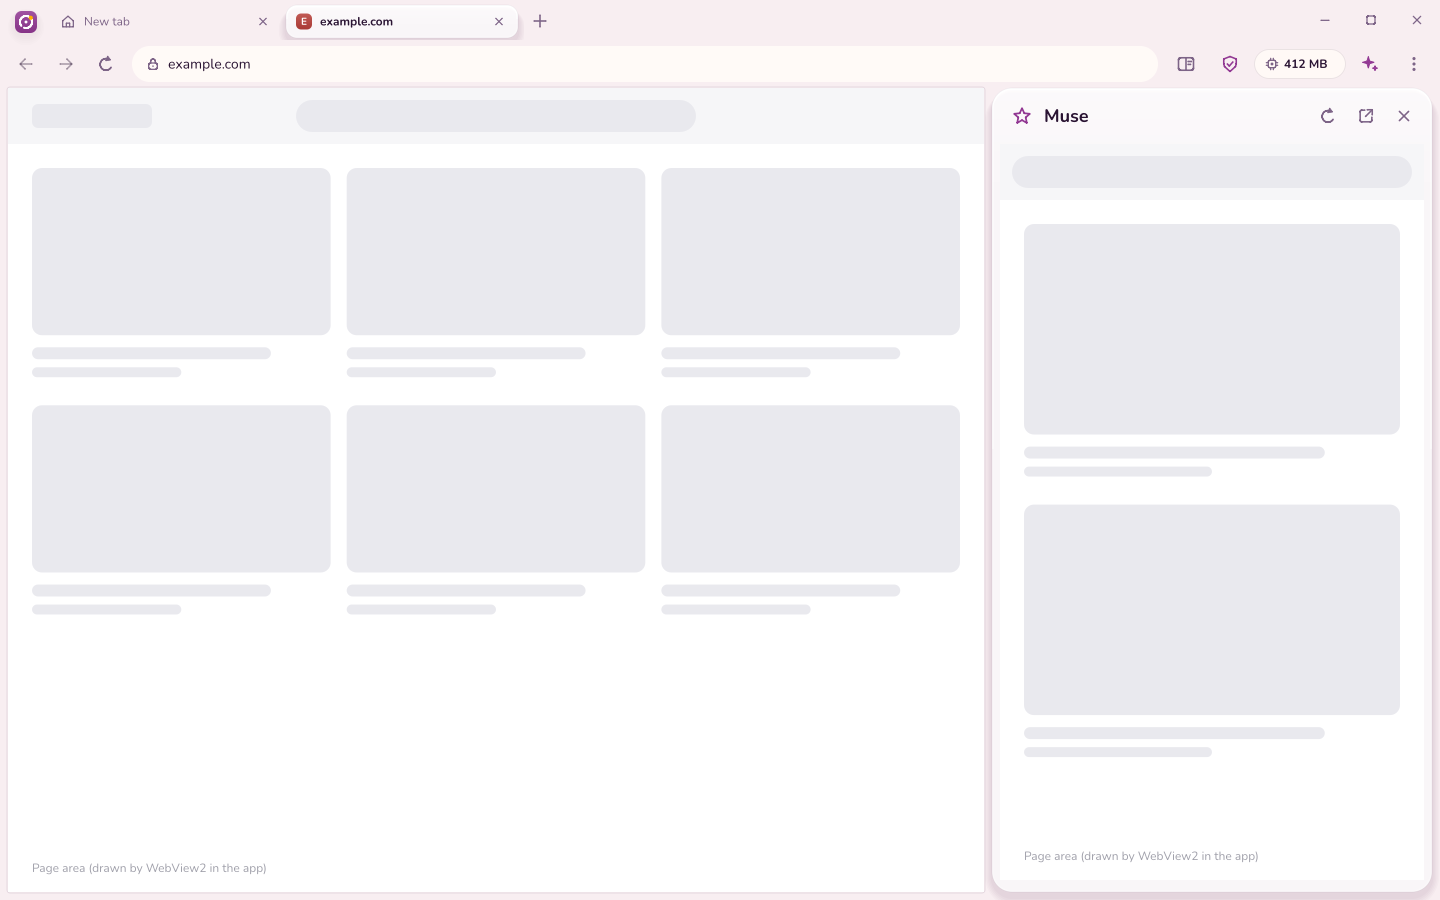
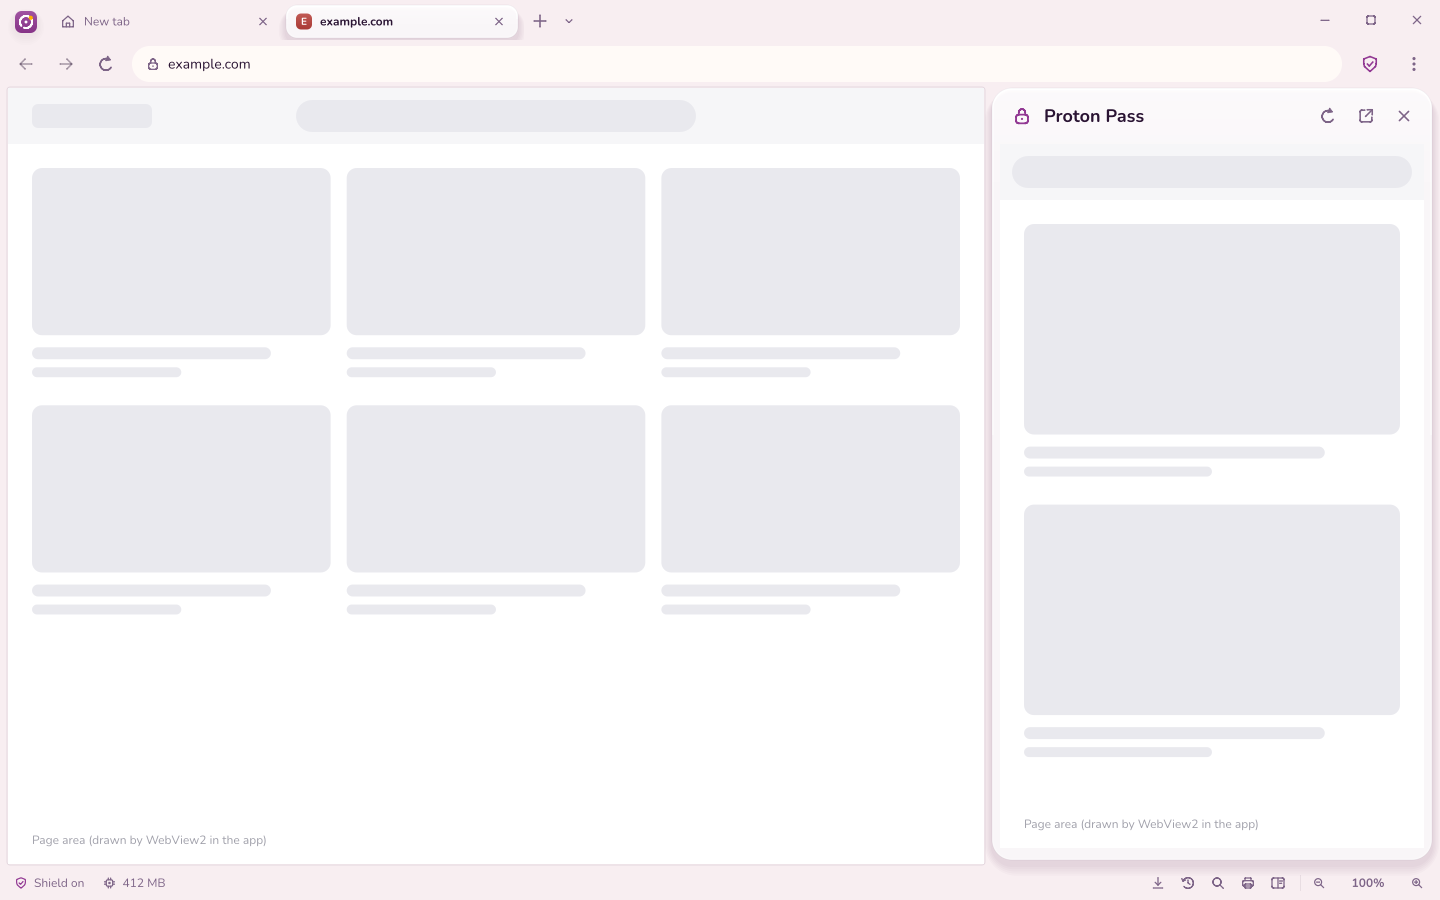
1.0.3: README and notes; Lite results read Google's mobile page too, and look again while it builds
Claude-Session: https://claude.ai/code/session_01MEhVsAAkMkEJaBw27qK1mL

diff --git a/android/app/src/main/java/org/tulipanlabs/lite/Results.kt b/android/app/src/main/java/org/tulipanlabs/lite/Results.kt
@@ -45,10 +45,6 @@ class Results(private val ctx: Context) {
         val w = worker ?: WebView(ctx).also { v ->
             v.settings.javaScriptEnabled = true
             v.settings.domStorageEnabled = true
-            // Google's desktop page: the reading scripts are the desktop's, and its mobile page is built differently
-            v.settings.userAgentString = DESKTOP_AGENT
-            v.settings.useWideViewPort = true
-            v.settings.loadWithOverviewMode = true
             v.visibility = View.INVISIBLE
             host.addView(v, 0, FrameLayout.LayoutParams(ViewGroup.LayoutParams.MATCH_PARENT, ViewGroup.LayoutParams.MATCH_PARENT))
             worker = v
@@ -60,6 +56,8 @@ class Results(private val ctx: Context) {
         var web: List<WebHit>? = null
         var finished = false
         var stage = 0
+        var tries = 0
+        lateinit var again: (String?) -> Unit
         fun finish(hits: List<WebHit>?, images: List<ImageHit>) {
             if (finished || my != seq) return
             finished = true
@@ -82,6 +80,11 @@ class Results(private val ctx: Context) {
                         v.evaluateJavascript(webJs) { raw ->
                             val (hits, captcha) = parseWeb(raw)
                             android.util.Log.i("LiteResults", "web: ${hits.size} links, captcha $captcha, at $url")
+                            if (hits.isEmpty() && !captcha && tries++ < 3) {
+                                // the page may still be building its results: look again
+                                ui.postDelayed({ if (my == seq && !finished) v.evaluateJavascript(webJs) { r2 -> again(r2) } }, 700)
+                                return@evaluateJavascript
+                            }
                             if (captcha || hits.isEmpty()) {
                                 finish(null, emptyList())
                                 return@evaluateJavascript
@@ -98,6 +101,19 @@ class Results(private val ctx: Context) {
                         }
                     }
                 }, if (st == 0) 250 else 900)
+            }
+        }
+        again = { raw ->
+            val (hits, captcha) = parseWeb(raw)
+            android.util.Log.i("LiteResults", "web again: ${hits.size} links, captcha $captcha")
+            when {
+                hits.isNotEmpty() -> {
+                    web = hits
+                    stage = 1
+                    w.loadUrl(Search.url(q, Mode.IMAGES))
+                }
+                captcha || tries++ >= 3 -> finish(null, emptyList())
+                else -> ui.postDelayed({ if (my == seq && !finished) w.evaluateJavascript(webJs) { r -> again(r) } }, 700)
             }
         }
         w.loadUrl(Search.url(q, Mode.WEB))

diff --git a/android/app/src/main/java/org/tulipanlabs/lite/MainActivity.kt b/android/app/src/main/java/org/tulipanlabs/lite/MainActivity.kt
@@ -1182,7 +1182,7 @@ class MainActivity : Activity(), PageEvents {
         // about
         col.addView(section("About"))
         val wv = WebView.getCurrentWebViewPackage()?.versionName ?: ""
-        col.addView(note("Lite 1.0.2 for Android · pages by Android System WebView $wv\nTulipan Labs (Cesar Jose Luis Torrecilla Gelvez) · GPL 3.0"))
+        col.addView(note("Lite 1.0.3 for Android · pages by Android System WebView $wv\nTulipan Labs (Cesar Jose Luis Torrecilla Gelvez) · GPL 3.0"))
         return col
     }
 

diff --git a/android/app/src/main/assets/js/google-web.js b/android/app/src/main/assets/js/google-web.js
@@ -1,7 +1,8 @@
 (() => {
   const out = [], seen = new Set();
   const root = document.querySelector('#rso') || document.querySelector('#search') || document.body;
-  for (const h of root.querySelectorAll('a h3')) {
+  // h3 on the desktop page; a heading role on the mobile one
+  for (const h of root.querySelectorAll('a h3, a [role="heading"]')) {
     const a = h.closest('a');
     if (!a || !a.href) continue;
     // never ads or promoted units

diff --git a/core/google.go b/core/google.go
@@ -81,7 +81,8 @@ func GoogleQuery(u string) (q string, m Mode, ok bool) {
 const WebScript = `(() => {
   const out = [], seen = new Set();
   const root = document.querySelector('#rso') || document.querySelector('#search') || document.body;
-  for (const h of root.querySelectorAll('a h3')) {
+  // h3 on the desktop page; a heading role on the mobile one
+  for (const h of root.querySelectorAll('a h3, a [role="heading"]')) {
     const a = h.closest('a');
     if (!a || !a.href) continue;
     // never ads or promoted units

diff --git a/tools/msix.go b/tools/msix.go
@@ -148,7 +148,7 @@ func logo(w, h int) []byte {
 }
 
 func readID() identity {
-	id := identity{Name: "TulipanLabs.LiteGo", Publisher: "CN=Tulipan Labs", PublisherDisplayName: "Tulipan Labs", Version: "1.0.2.0"}
+	id := identity{Name: "TulipanLabs.LiteGo", Publisher: "CN=Tulipan Labs", PublisherDisplayName: "Tulipan Labs", Version: "1.0.3.0"}
 	if b, err := os.ReadFile("packaging/msix.json"); err == nil {
 		var f map[string]string
 		if json.Unmarshal(b, &f) == nil {

diff --git a/tools/icongen.go b/tools/icongen.go
@@ -51,8 +51,8 @@ func main() {
 		rs := &winres.ResourceSet{}
 		rs.SetIcon(winres.ID(1), ic)
 		v := version.Info{}
-		v.SetFileVersion("1.0.2.0")
-		v.SetProductVersion("1.0.2.0")
+		v.SetFileVersion("1.0.3.0")
+		v.SetProductVersion("1.0.3.0")
 		v.Set(0, version.ProductName, "Lite Go")
 		v.Set(0, version.FileDescription, t.desc)
 		v.Set(0, version.CompanyName, "Tulipan Labs")

diff --git a/cmd/litego/main.go b/cmd/litego/main.go
@@ -15,7 +15,7 @@ import (
 	"litego/shell"
 )
 
-const version = "1.0.2"
+const version = "1.0.3"
 
 func main() {
 	// a small, steady footprint: collect garbage sooner and keep the Go heap

diff --git a/README.md b/README.md
@@ -93,12 +93,12 @@ a page of Lite Go's own, in your theme. No bookmarks, no tiles, no feeds.
 <td align="center"><sub><b>Sorbet.</b> One of four pastel palettes that merge three colors.</sub></td>
 </tr>
 <tr>
-<td width="50%"><img src="assets/screens/side-app.png" alt="Muse in the side panel beside a page"></td>
-<td width="50%"><img src="assets/screens/night.png" alt="Lite results in the Night palette"></td>
+<td width="50%"><img src="assets/screens/settings.png" alt="The settings page"></td>
+<td width="50%"><img src="assets/screens/new-tab-menu.png" alt="The menu of the + button: private, temporary, sandbox and container tabs"></td>
 </tr>
 <tr>
-<td align="center"><sub><b>Side apps.</b> Muse or Proton Pass beside the page.</sub></td>
-<td align="center"><sub><b>Night.</b> Eleven palettes in all.</sub></td>
+<td align="center"><sub><b>Settings.</b> A page of its own, with a status bar below.</sub></td>
+<td align="center"><sub><b>The + menu.</b> Private, temporary, sandbox and container tabs.</sub></td>
 </tr>
 </table>
 
@@ -113,14 +113,16 @@ and thumbnails are placeholders.</sub>
 |---|---|
 | **Lite results** | Google searches on Lite Go's own page: a picture carousel, a stack of video cards, the AI Mode answer with its sources, and the websites ranked by source quality (references, official sites and docs rise; shops, coupon farms and listicles sink). "On Google" shows the original. |
 | **Search modes** | AI Mode (default), Web, Images, Videos and YouTube. Type `yt ` before words to search YouTube from any mode. |
-| **Ask AI** | On any page, a side panel sends your question and the page's text (or your selection) to Google AI Mode and writes the answer with its sources. No API key. |
+| **Ask AI** (Ctrl+J) | On any page, a side panel sends your question and the page's text (or your selection) to Google AI Mode and writes the answer with its sources. No API key. |
 | **Split view** | Two pages side by side. The pane you click takes the keyboard and the address bar. |
 | **Downloads** | A toolbar icon with a progress ring; a list with speed, time left, pause, resume, cancel, open and show in folder. |
 | **Phone link** | Move photos and files between the computer and a phone with nothing to install on the phone: Lite Go shows a QR code, the phone scans it and uses its own browser to send files (they land in Downloads) or take the ones you offer, or the page you are on. Same Wi-Fi only; the address carries a random key and works only while the link is on. The connection is not encrypted, so it is for networks you trust. |
-| **Side apps** | Muse (Meta's AI agent; US only for now) and Proton Pass (passwords) open in the side panel, beside the page you are on, and stay signed in. They are the sites themselves; Lite Go reads nothing from them. |
+| **Proton Pass** | Your passwords in the side panel, beside the page you are on, kept signed in (from the menu). It is the Proton Pass site itself; Lite Go reads nothing from it. |
+| **Status bar** | Along the bottom, as in Vivaldi: what the shield blocked, the memory the pages use, downloads, history, find, print, split view and zoom. |
+| **Settings** | A page of their own, like Chromium's, with the sections at the left: appearance, search, shields and privacy, containers, performance, phone and sync, startup, history and about. |
 | **Sync with Android** | History, open tabs and the palette stay the same on the computer and Lite for Android, with no account and no server: the two trade directly when they are on the same Wi-Fi, sealed with AES-256 under a key only they share. Pair from Menu, Phone. |
 | **The usual** | Find in page, zoom, print, a searchable history by day, reopen a closed tab, and the last tabs brought back at start (unloaded until you open them). |
-| **Tabs** | On top or at the side. Normal, private, temporary, sandbox and container tabs, chosen on the new tab page. Containers keep their own sign-ins, each with its own icon and color. |
+| **Tabs** | On top or at the side. The arrow beside the + button (or a right-click on it) opens private, temporary, sandbox and container tabs, as in Brave. Containers keep their own sign-ins, each with an icon and a color you choose under Settings, Containers. |
 
 ### Memory
 
@@ -161,7 +163,7 @@ and thumbnails are placeholders.</sub>
 | `Ctrl` `Tab` | Next tab | `Ctrl` `M` | Mute tab |
 | `Ctrl` `1`...`9` | Go to tab | `Alt` `Left` / `Right` | Back, forward |
 | `Ctrl` `R` / `F5` | Reload | `F11` | Full screen |
-| `Ctrl` `Shift` `L` | Phone link | `Ctrl` `Shift` `M` | Muse |
+| `Ctrl` `Shift` `L` | Phone and sync | `Ctrl` `,` | Menu |
 
 They work while a page has the keyboard too.
 
@@ -171,7 +173,7 @@ They work while a page has the keyboard too.
 |---|---|---|
 | Windows 10 and 11 (x64, ARM64) | Microsoft Edge WebView2, through Lite Go's own bindings in pure Go (no cgo) | Runs. The newest features (downloads, split view, sandbox, phone link) are covered by tests with a stand-in engine and still need a pass on a real PC. |
 | Linux: native Wayland and X11 (GNOME, KDE, niri and others) | WebKitGTK 4.1, in a GTK window | Written; first run pending. |
-| Android 8 and newer | Android System WebView | **Lite for Android**, a separate app in Kotlin (`android/`): shields, Lite results, tabs, palettes and sync with the computer. `Lite-android.apk` is in each release. |
+| Android 8 and newer | Android System WebView | **Lite for Android**, a separate app in Kotlin (`android/`): shields, Lite results for Web searches, tabs, containers (WebView 123 or newer), eleven palettes, phone and tablet layouts, and sync with the computer. `Lite-android.apk` is in each release. |
 
 No engine is bundled: each comes with the system and is kept up to date by it.
 

diff --git a/packaging/release-notes.md b/packaging/release-notes.md
@@ -1,5 +1,13 @@
 Lite Go: a light, fast browser in Go and Gio for Windows 10 and 11.
 
+## New in 1.0.3
+
+- **Settings page** in a tab of its own, like Chromium's, with the sections at the left.
+- **Status bar** along the bottom, as in Vivaldi: shield count, memory, downloads, history, find, print, split view and zoom.
+- **Container tabs from the + button** (its arrow, or right-click), as in Brave; pick each container's icon and color under Settings, Containers.
+- **Removed:** Muse, the AI button and the memory pill from the toolbar. Ask AI is still on Ctrl+J; Proton Pass is in the menu; the phone link is under Settings, Phone and sync.
+- **Lite for Android:** the palettes show properly (they were drawn with no height), the four pastel palettes, containers (hold the + button), Lite results for Web searches, and layouts for tablets and landscape.
+
 ## New in 1.0.2
 
 - **Opens maximized**, and remembers the size and state you leave the window in.
